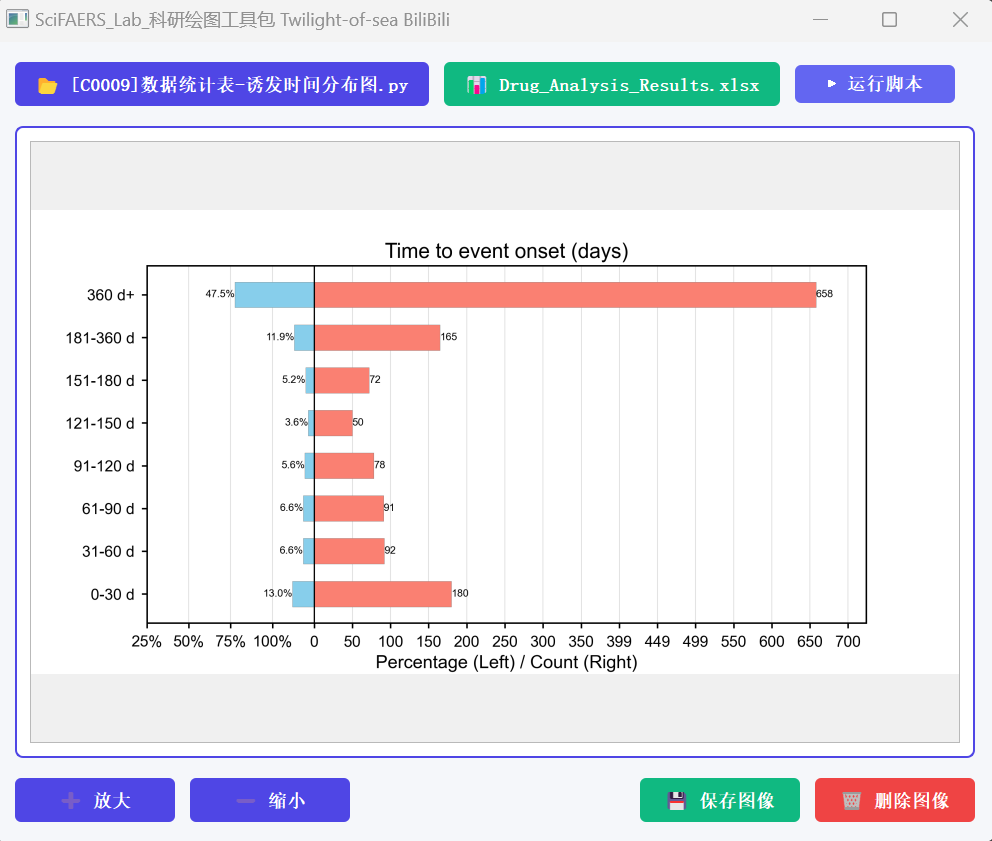
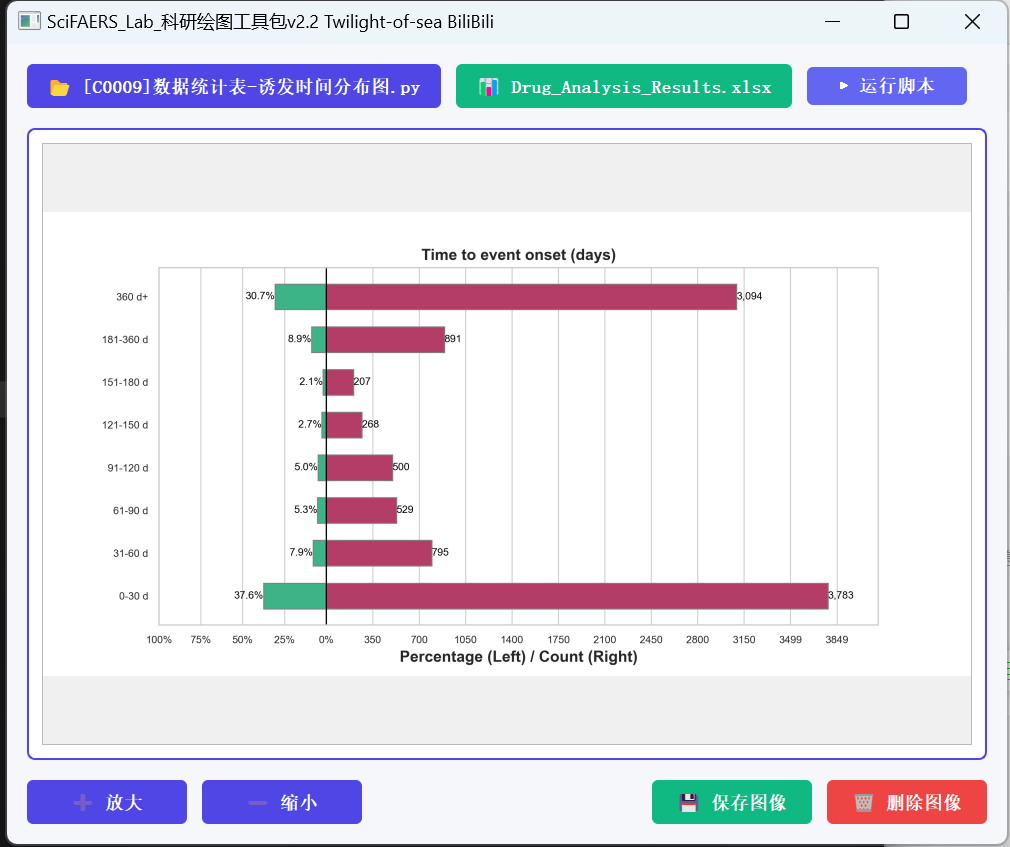
update

diff --git a/软件操作说明.md b/软件操作说明.md
@@ -17,8 +17,8 @@
     - 生成文件："./Report/导出报告/不良反应信号报告/根据框选的算法筛选后的不良反应信号(PT).xlsx"，筛选后结果
 
 3. 底部按钮：“开始分析”
-    - 读取"./Lib_Data/Data_Lake"文件夹中的数据库文件，根据所输入的药物名进行信号检测
-    - 请确保这个文件夹存在。  
+    - 读取"./Lib_Data/Data_Lake"文件夹中的数据库文件，并进行数据预处理，清洗，去重，根据所输入的药物名报告提取，不成比例分析及信号检测。
+    - 请确保这个文件夹存在。（整合包中自带完整数据库，方法部分请参阅：[数据库范围和方法说明](./数据库范围和方法说明.md)）  
     
     <img src="./pic/新版界面2.png" alt="启动截图" width="550">
 4. 简洁、优雅的UI界面，右上角可以自由切换白天/黑夜模式
@@ -54,6 +54,7 @@
   
     <img src="./pic/韦恩.png" alt="韦恩" width="250">  
     <img src="./pic/[1014]信号值（PT）-极坐标柱状图_SOC_PT_算法阈值-type2 copy_temp.png" alt="[1014]信号值（PT）-极坐标柱状图_SOC_PT_算法阈值-type2 copy_temp" width="250">   
+    <img src="./pic/[1002a]信号值（PT）-层级映射-type1_temp.png" alt="[1002a]信号值（PT）-层级映射-type1_temp" width="250">     
 
     - PS：具体公式和代码请参考：附加的信号计算器和算法说明文件  
 
@@ -176,8 +177,7 @@
 4. 保存后的可选操作：
    - 打开小工具文件夹中的去重工具，将得到的数据去重
 
-
-
+5. 在分割完成后，可以将数据导入"./Lib_Data/Data_Lake"文件夹内，替换原有文件，再通过执行信号监测工具以完成特定人群内的信号检出。（PS: 注意备份原有的文件）
 
 
 ### 四、信息统计工具
@@ -199,18 +199,18 @@
     <img src="./pic/报告年份统计.png" alt="报告年份统计" width="350">   
 
 2. 导出的这个工作簿当然也可以绘图，脚本编号为C开头，大概有十张图如：
-   - [C0009]数据统计表-诱发时间分布图 & [C0008]数据统计表-体重段分布图 
+   - 诱发时间蝶形图 & 年龄-性别频数分布 
 
     <img src="./pic/诱发时间图-C开头.png" alt="诱发时间图-C开头" width="350">  
 
 
-    <img src="./pic/体重分布-C开头.png" alt="体重分布-C开头" width="350">      
+    <img src="./pic/[C0007]数据统计表-年龄-性别频数分布-分组柱状图_temp.png" alt="[C0007]数据统计表-年龄-性别频数分布-分组柱状图_temp" width="350">      
 
 
 ### 五、画图工具
 <img src="./pic/绘图工具使用教程.png" alt="绘图工具使用教程" width="350">
 
-<img src="./pic/画图脚本.png" alt="画图脚本" width="350">
+> 当前v1.53版本，脚本目录中文件数量：101
 
 - #### 脚本命名规则
 1. 命名：
@@ -224,7 +224,8 @@
     - P和S开头的作图脚本，要手动创建excel表格，[文章套路](./文章套路.md)中会给出详细指引。
 
 ### 六、特征提取工具(机器学习用)
-- [bilibili:给懒人看的FAERS机器学习教程](https://www.bilibili.com/video/BV1su39zKEPX/)
+- 在[文章套路](./文章套路.md)中有更详细的功能说明
+- [B站视频：给懒人看的FAERS机器学习教程](https://www.bilibili.com/video/BV1su39zKEPX/)
 -  <img src="./pic/特征提取.png" alt="特征提取" width="350">
 
 - 执行特征提取工具，得到特征提取报告。运行脚本[S3002]等，设置模型参数和Gold Standard，自动完成建模、AUC曲线绘制、模型性能打分。
